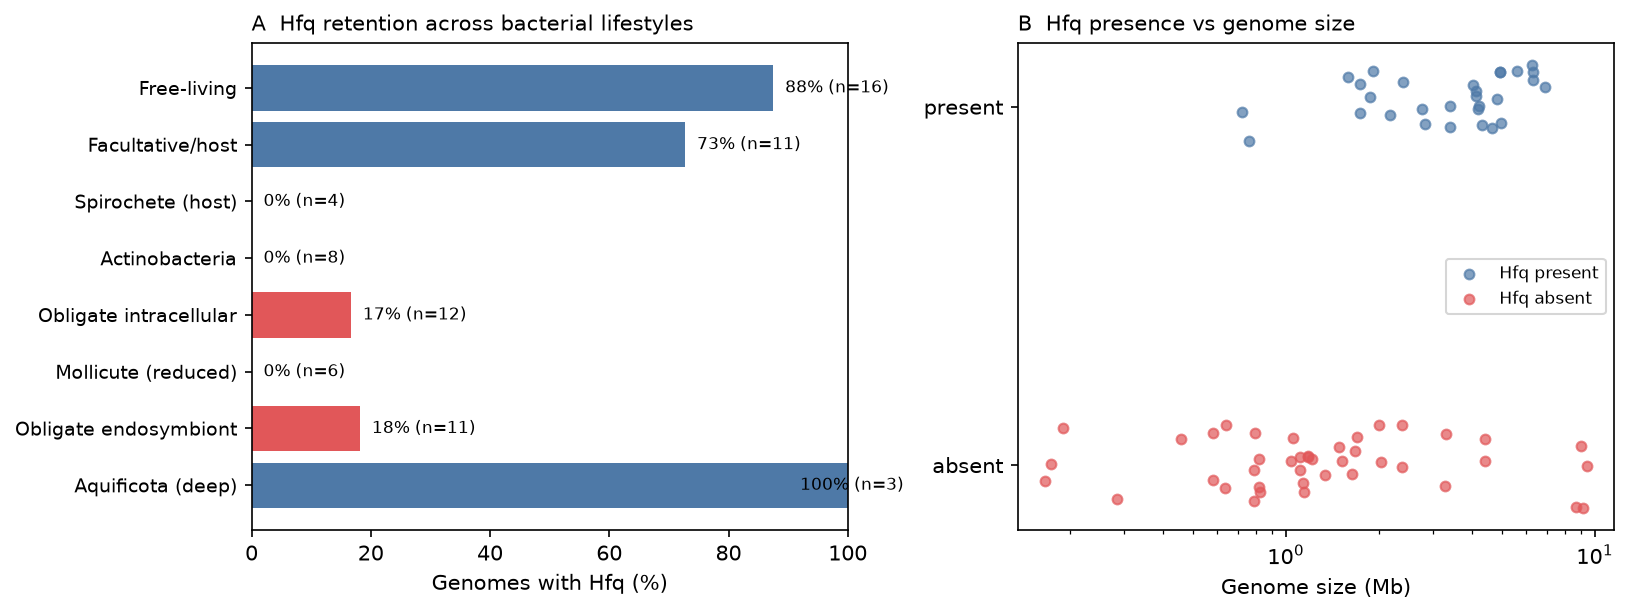
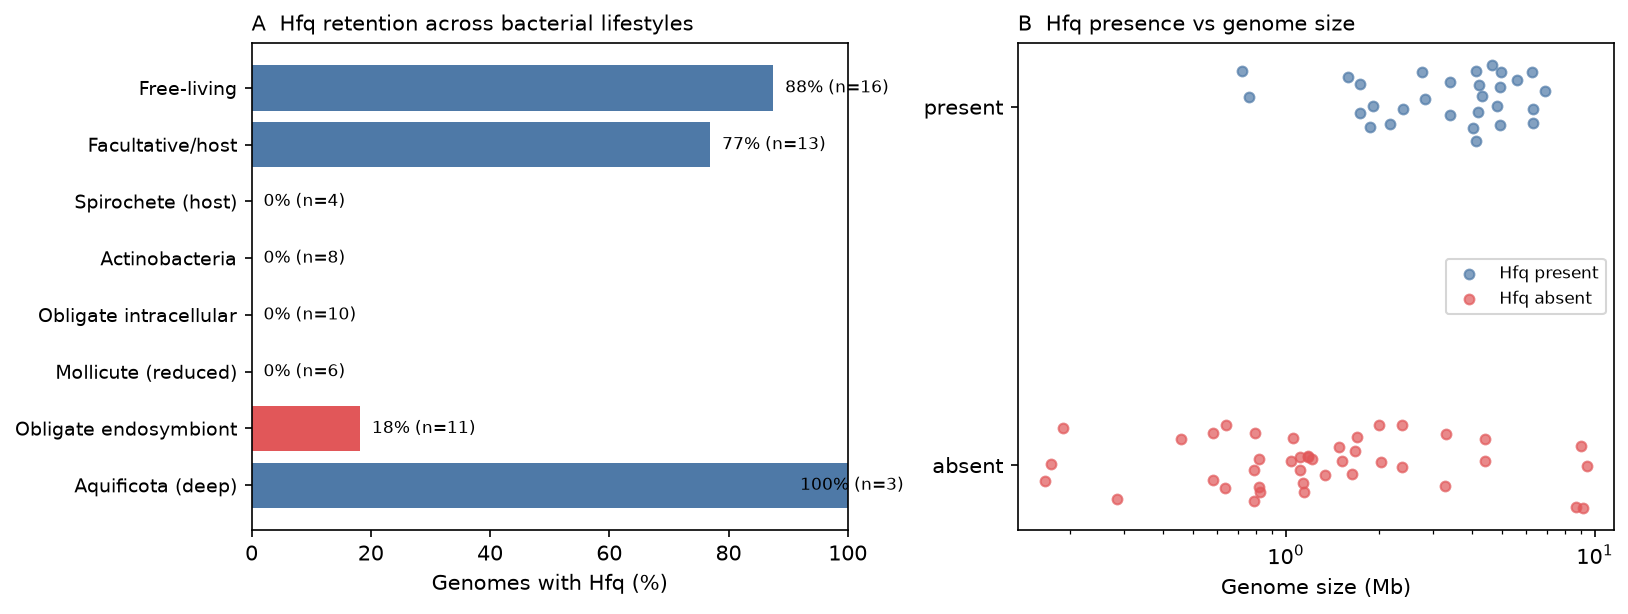
bio-a: reclassify Francisella (obligate_intracellular -> facultative_host)
Francisella is facultative intracellular (axenically culturable), ~1.9 Mb, and
retains Hfq; removing it from obligate_intracellular sharpens that category to
0/10 (true obligate intracellular all lose Hfq). Correlation unchanged (r=0.34/0.51).

diff --git a/3-analysis/hfq_census/lifestyle_justification.md b/3-analysis/hfq_census/lifestyle_justification.md
@@ -55,7 +55,7 @@ justify them to a reviewer.** Borderline calls are flagged ⚠.
 | Anaplasma phagocytophilum | Obligate intracellular; ~1.5 Mb |
 | Chlamydia trachomatis | Obligate intracellular; ~1.0 Mb |
 | Coxiella burnetii | Obligate intracellular (historically); ~2.0 Mb ⚠ can be axenically cultured now |
-| Francisella tularensis | Facultative intracellular ⚠ (not strictly obligate); ~1.9 Mb; **retains Hfq in our data** |
+| Francisella tularensis | **RECLASSIFIED to facultative_host (2026-07-05)**: facultative intracellular (axenically culturable), ~1.9 Mb, retains Hfq — moving it out sharpens obligate_intracellular to 0/10 |
 
 ⚠ *Coxiella and Francisella are borderline (facultative). Francisella retains Hfq, consistent with being less reduced/less obligate. Be ready to justify or reclassify as "facultative_host".*
 